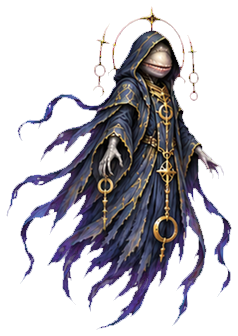
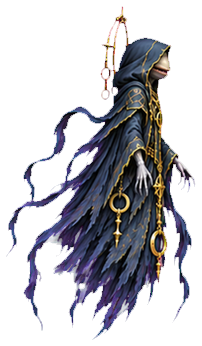
Athoth refeito em perfil (folha c) no lugar da 3/4

diff --git a/artes/gpt/MANIFESTO.md b/artes/gpt/MANIFESTO.md
@@ -87,6 +87,7 @@ Quadros por célula (padrão): 0 idle_0 · 1 idle_1 · 2 walk_0 · 3 walk_1 · 4
 Downloads voltaram a funcionar no Chrome (Browser 2) com <a download>.
 
 ## Chefe 1 — Athoth (Torpor)
+- REFEITO (ver abaixo: APROVADO `boss_1_athoth_c.png`). Versão antiga:
 - Arquivo: `boss_1_athoth_a.png` — 2×4, 1 geração. Chat: https://chatgpt.com/c/6ad306c4-77ac-83e9-8a1e-bd5c7f47dfa5
 - Nota: 7/10. Fiel à ref (capuz, rosto pálido, halo com argolas, trapos navy). Vista 3/4 voltada p/ direita (não perfil puro).
 - Observações: a névoa/orbes roxos do windup/strike se misturam com o magenta (franja rosada maior: ~9,8 mil px quase-magenta) —
@@ -149,3 +150,36 @@ Downloads voltaram a funcionar no Chrome (Browser 2) com <a download>.
 - Nota: 8/10. Perfil p/ direita; manto marfim com faixa dourada, máscara branca com fendas, capuz-coroa fiéis. windup (braço erguido
   com o orbe-olho dourado), strike (gesto régio à frente com o orbe), hurt (mangas p/ cima), death (afundando de joelhos, manto no chão).
   8 quadros separados; mantos encostam nas bordas laterais (x≈4 e x≈1534).
+
+## Chefe 1 — Athoth REFEITO (perfil verdadeiro, névoa mínima)
+- Arquivo APROVADO: `boss_1_athoth_c.png` — 2×4. Intermediária: `boss_1_athoth_b.png` (névoa mínima ok, mas rosto ainda 3/4; nota 7.5).
+  Chat: https://chatgpt.com/c/6ad32699-2dc0-83e9-a69b-44ce03def36a (2 gerações)
+- Nota: 8/10. PERFIL estrito p/ direita (capuz e rosto apontando p/ direita, halo de lado), trapos navy (sem roxo), só 2–3 orbes
+  pequenos no windup/strike. Fundo magenta limpo (270 px quase-magenta, vs 9,8 mil na versão a).
+- Observações: os trapos da linha de cima descem até y≈526 (passam um pouco da metade da imagem, 512) — separar linhas pelos
+  componentes, não por corte fixo em y=512.
+
+# CRIATURAS (um chat por tipo; ref = recorte da criaturas_folha.png; grade 2×4)
+Quadros por célula (padrão): 0 idle_0 · 1 walk_0 · 2 walk_1 · 3 walk_2 · 4 windup · 5 strike · 6 hurt · 7 death.
+Numeração = posição na criaturas_folha.png (3×3, esq→dir, cima→baixo). Recortes enviados: scratchpad\refs\cri_<n>.png.
+
+## Criatura 1 — Larva espectral (grub com mortalha verde)
+- Arquivo: `cri_1_larva_a.png` — 2×4, 1 geração. Chat: https://chatgpt.com/c/6ad327b1-911c-83e9-af53-7b82906538bb
+- Nota: 8/10. Perfil p/ direita, olho âmbar, mortalha verde fiel; walk = ondulação flutuando; windup enrolada, strike bote esticado,
+  hurt, death (murcha no chão). Fundo limpo; idle_0 encosta na borda esquerda (x≈4).
+
+## Criatura 2 — Espadachim oco (soldado de ferro, olho laranja)
+- Arquivo: `cri_2_espadachim_a.png` — 2×4, 1 geração. Chat: https://chatgpt.com/c/6ad32831-7748-83e8-acf5-b3988606ab48
+- Nota: 8/10. Perfil p/ direita, armadura, capa rasgada e espada fiéis; walk de 3 quadros legível; windup espada sobre o ombro,
+  strike corte diagonal baixo, hurt, death (caído de joelhos, espada solta no chão — componente separado).
+
+## Criatura 3 — Bruto de ferro (armadura vermelha enferrujada)
+- Arquivo APROVADO: `cri_3_bruto_b.png` — 2×4. Rejeitada: `cri_3_bruto_a.png` (windup e strike se tocavam; soco invadia a célula seguinte).
+  Chat: https://chatgpt.com/c/6ad328b1-9c00-83e8-bbb0-5dc9e7f9f848 (2 gerações)
+- Nota: 8/10. Perfil p/ direita, fiel à ref; walk de 3 quadros; windup punho atrás, strike soco estendido, hurt, death (de joelhos/caído).
+  Figuras um pouco menores (h≈385) — todas dentro das células.
+
+## Criatura 4 — Cão-esqueleto (pelo negro, costelas expostas, crânio com chifres)
+- Arquivo: `cri_4_cao_a.png` — 2×4, 1 geração. Chat: https://chatgpt.com/c/6ad329a1-d56c-83e9-bd0b-449eb52a9e02
+- Nota: 8/10. Quadrúpede em perfil p/ direita, fiel; walk de 3 quadros; windup agachado, strike bote com mandíbula, hurt empinando,
+  death caído de lado (ossinhos soltos = pixels pequenos). Quadros dentro das células.

diff --git a/docs/onda2/ARTE_GPT.md b/docs/onda2/ARTE_GPT.md
@@ -43,7 +43,7 @@ Ver Pedidos.
 
 | Chefe | Folha | Estado | Capturas (C:\gnosis-wt\_caps\arte-gpt\) |
 |---|---|---|---|
-| Athoth | `artes/gpt/boss_1_athoth_a.png` (3/4; refação em perfil a caminho) | **integrado** (14 quadros, 6 meios RIFE) | `gifs/athoth_antes_jogo_leve.gif`, `gifs/athoth_depois_jogo_leve.gif`, `gifs/athoth_prancha_antes_depois.png`, `athoth_contact.png` |
+| Athoth | `artes/gpt/boss_1_athoth_c.png` (perfil; a versão a, 3/4 com névoa roxa, ficou guardada) | **integrado** (14 quadros, 6 meios RIFE) — `gifs/athoth_c_jogo.png`, `gifs/prancha_arconte_sono.png` | `gifs/athoth_antes_jogo_leve.gif`, `gifs/athoth_depois_jogo_leve.gif`, `gifs/athoth_prancha_antes_depois.png`, `athoth_contact.png` |
 | Harmas | `boss_2_harmas_a.png` (RGBA, alfa já vem pronto) | **integrado** (11 quadros, 3 meios) | `gifs/prancha_arconte_fome.png`, `gifs/harmas_depois_jogo_leve.gif` |
 | Galila | `boss_3_galila_b.png` (_a rejeitada pelo produtor) | **integrado** (11/3) | `gifs/prancha_arconte_corrente.png`, `gifs/galila_depois_jogo_leve.gif` |
 | Yabel | `boss_4_yabel_a.png` | **integrado** (14/6, espectro: andar em vaivém) | `gifs/prancha_arconte_silencio.png`, `gifs/yabel_depois_jogo_leve.gif` |
